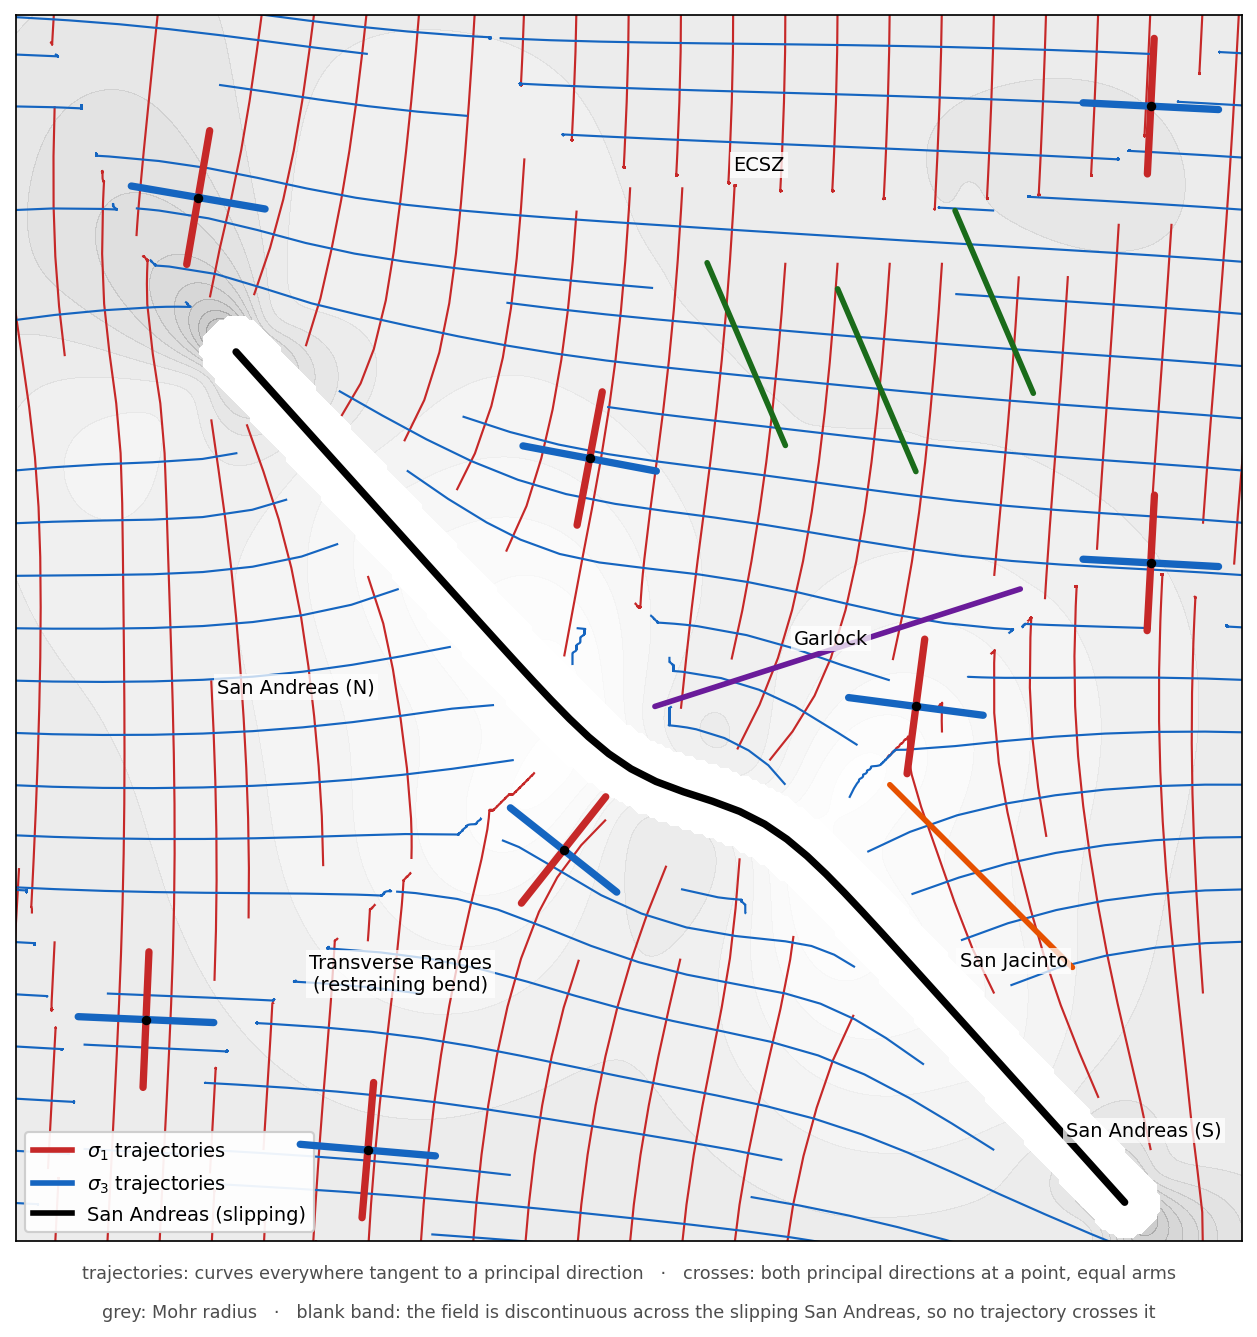
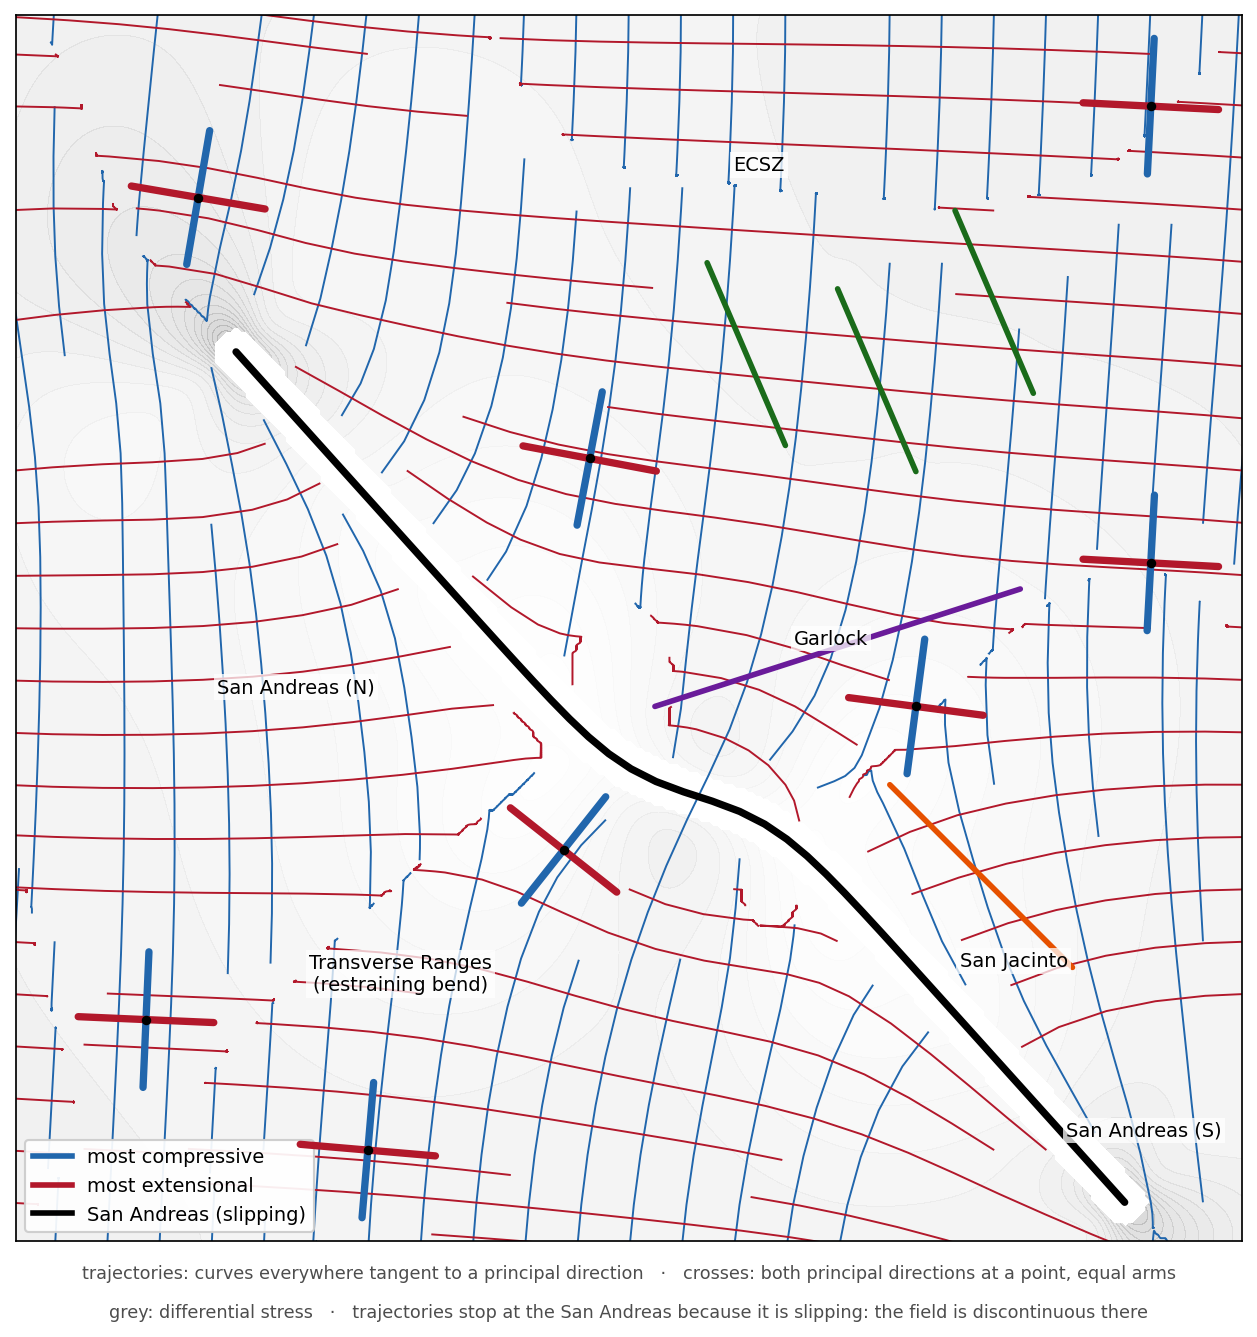
Module 3.1: trajectory figure follows the library conventions
Colours were inverted against underworld3's visualisation/glyphs.py
(blue compressive, red tensile). Named most compressive / most
extensional rather than sigma_1 / sigma_3, per the course convention.
"Mohr radius" replaced by differential stress, which the deck teaches.
The blank band is narrower and explained.

Claude-Session: https://claude.ai/code/session_01QKZ5ANuqmbxsanNfPFk9J2

diff --git a/Lectures/Module-iii-lecture1-Theory-draft.reveal.md b/Lectures/Module-iii-lecture1-Theory-draft.reveal.md
@@ -980,7 +980,7 @@ Far from the fault they are straight and parallel, at $45°$ to the plate-bounda
 
 Near the fault they are not. A slipping surface carries **no shear**, so the principal directions must swing to meet it — most visibly through the restraining bend.
 
-Only the San Andreas is blank — the field jumps across a slipping surface. The neighbours are welded, so trajectories run past them.
+Blue is the **most compressive** direction, red the **most extensional**. Trajectories stop at the San Andreas because it is slipping and the field is discontinuous across it; the neighbours are welded, so they run past.
 
 <small>
 
